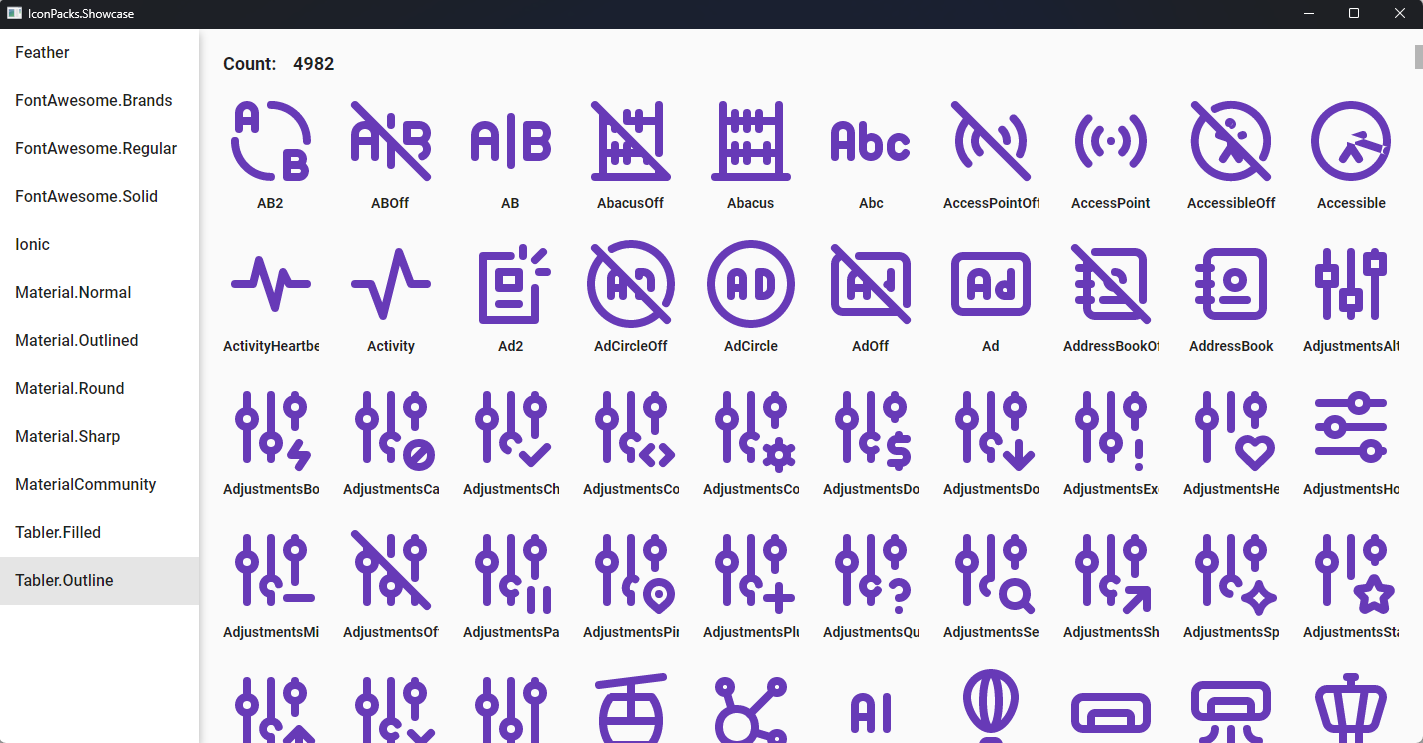
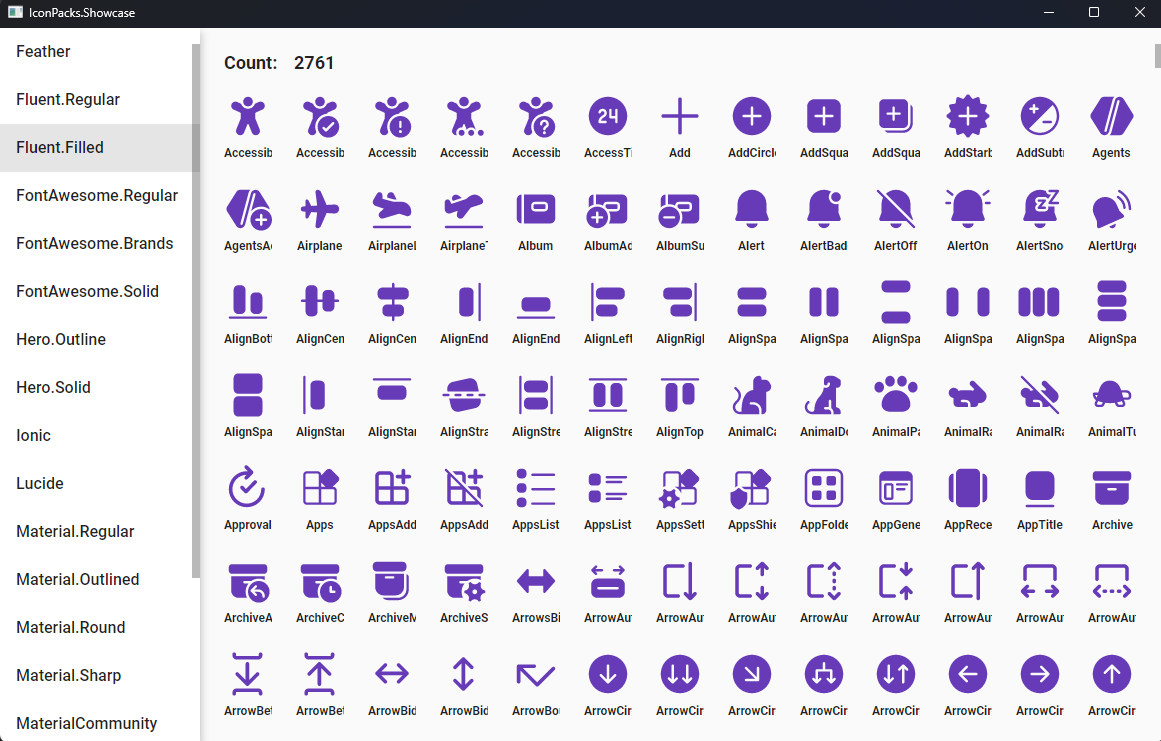
Update README

diff --git a/README.md b/README.md
@@ -6,12 +6,16 @@ Awesome icon packs for .NET
 
 | Category                                                     | Package                                                      |
 | ------------------------------------------------------------ | ------------------------------------------------------------ |
-| [Feather](https://feathericons.com/)                         | [![Nuget (with prereleases)](https://img.shields.io/nuget/vpre/IconPacks.Feather?style=for-the-badge)](https://www.nuget.org/packages/IconPacks.Feather) |
-| [FontAwesome free](https://fontawesome.com/search?o=r&m=free) | [![Nuget (with prereleases)](https://img.shields.io/nuget/vpre/IconPacks.FontAwesome?style=for-the-badge)](https://www.nuget.org/packages/IconPacks.FontAwesome) |
-| [Ionicons](https://ionic.io/ionicons/)                       | [![Nuget (with prereleases)](https://img.shields.io/nuget/vpre/IconPacks.Ionic?style=for-the-badge)](https://www.nuget.org/packages/IconPacks.Ionic) |
-| [Material-design-icons(google)](https://fonts.google.com/icons) | [![Nuget (with prereleases)](https://img.shields.io/nuget/vpre/IconPacks.Material?style=for-the-badge)](https://www.nuget.org/packages/IconPacks.Material) |
-| [MaterialDesign(community)](https://materialdesignicons.com) | [![Nuget (with prereleases)](https://img.shields.io/nuget/vpre/IconPacks.MaterialCommunity?style=for-the-badge)](https://www.nuget.org/packages/IconPacks.MaterialCommunity) |
-| [Tabler-icons](https://tabler-icons.io/)                     | [![Nuget (with prereleases)](https://img.shields.io/nuget/vpre/IconPacks.Tabler?style=for-the-badge)](https://www.nuget.org/packages/IconPacks.Tabler) |
+| [Feather](https://github.com/feathericons/feather.git)       | [![Nuget (with prereleases)](https://img.shields.io/nuget/vpre/IconPacks.Feather?style=for-the-badge)](https://www.nuget.org/packages/IconPacks.Feather) |
+| [fluentui-system-icons](https://github.com/microsoft/fluentui-system-icons.git) | [![Nuget (with prereleases)](https://img.shields.io/nuget/vpre/IconPacks.Fluent?style=for-the-badge)](https://www.nuget.org/packages/IconPacks.Fluent) |
+| [FontAwesome free](https://github.com/FortAwesome/Font-Awesome.git) | [![Nuget (with prereleases)](https://img.shields.io/nuget/vpre/IconPacks.FontAwesome?style=for-the-badge)](https://www.nuget.org/packages/IconPacks.FontAwesome) |
+| [ Heroicons](https://github.com/tailwindlabs/heroicons.git)  | [![Nuget (with prereleases)](https://img.shields.io/nuget/vpre/IconPacks.Hero?style=for-the-badge)](https://www.nuget.org/packages/IconPacks.Hero) |
+| [Ionicons](https://github.com/ionic-team/ionicons.git)       | [![Nuget (with prereleases)](https://img.shields.io/nuget/vpre/IconPacks.Ionic?style=for-the-badge)](https://www.nuget.org/packages/IconPacks.Ionic) |
+| [lucide-icons](https://github.com/lucide-icons/lucide.git)   | [![Nuget (with prereleases)](https://img.shields.io/nuget/vpre/IconPacks.Lucide?style=for-the-badge)](https://www.nuget.org/packages/IconPacks.Lucide) |
+| [Material-design-icons(google)](https://github.com/google/material-design-icons.git) | [![Nuget (with prereleases)](https://img.shields.io/nuget/vpre/IconPacks.Material?style=for-the-badge)](https://www.nuget.org/packages/IconPacks.Material) |
+| [MaterialDesign(community)](https://github.com/Templarian/MaterialDesign.git) | [![Nuget (with prereleases)](https://img.shields.io/nuget/vpre/IconPacks.MaterialCommunity?style=for-the-badge)](https://www.nuget.org/packages/IconPacks.MaterialCommunity) |
+| [RemixIcon](https://github.com/Remix-Design/RemixIcon.git)   | [![Nuget (with prereleases)](https://img.shields.io/nuget/vpre/IconPacks.Remix?style=for-the-badge)](https://www.nuget.org/packages/IconPacks.Remix) |
+| [Tabler-icons](https://github.com/tabler/tabler-icons.git)   | [![Nuget (with prereleases)](https://img.shields.io/nuget/vpre/IconPacks.Tabler?style=for-the-badge)](https://www.nuget.org/packages/IconPacks.Tabler) |
 
 
 